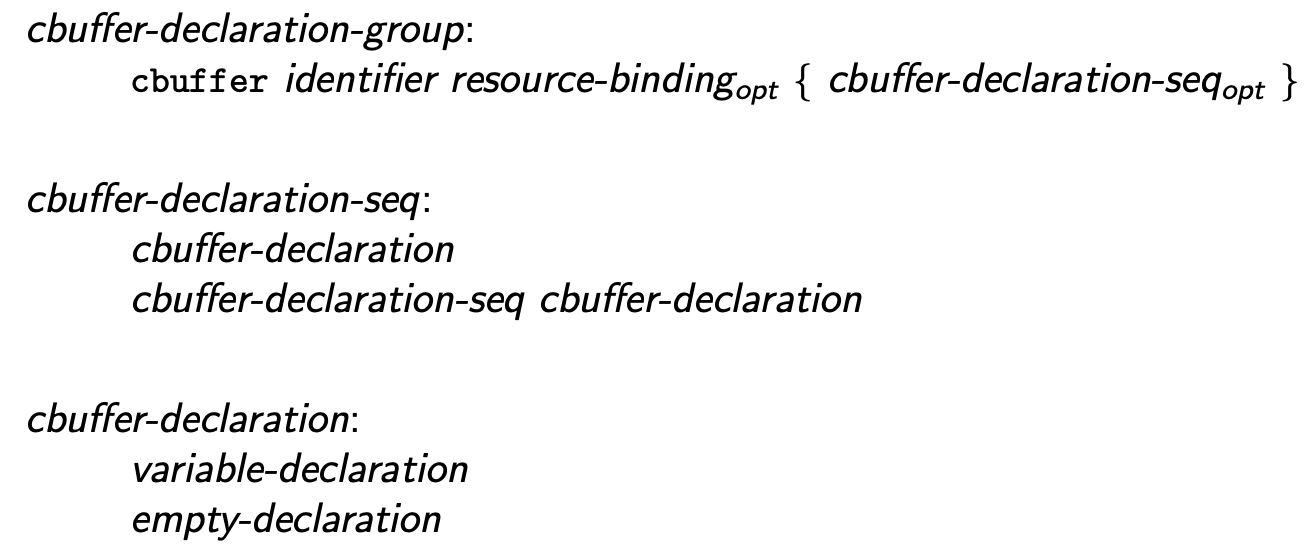
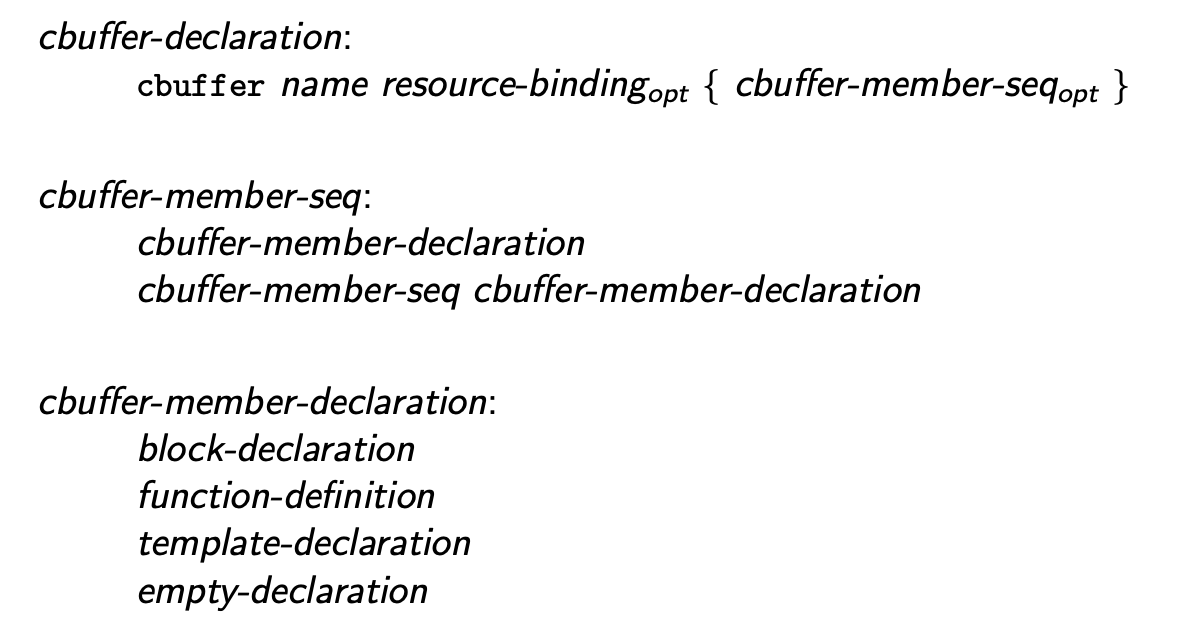
[0037] Only restrict nesting cbuffer and namespace decls (#685)
This slightly scales back the proposal to restricting namespaces in
cbuffers and restricting nesting of cbuffers. This is likely a safe
change for HLSL 202x, and we'll consider more significant changes in
subsequent language updates.

This conclusion came out of the language design meeting discussion from
10/13/2025.

The language spec updates are posted in a draft as
https://github.com/microsoft/hlsl-specs/pull/684.

---------

diff --git a/proposals/0037-cbuffer-contexts.md b/proposals/0037-cbuffer-contexts.md
@@ -7,8 +7,6 @@ params:
   status: Under Consideration
 ---
 
-
- 
 * Planned Version: 202x
 * Issues: [DXC #4514](https://github.com/microsoft/DirectXShaderCompiler/issues/4514)
 
@@ -69,39 +67,62 @@ To simplify HLSL's language semantics and the compiler implementation a new
 grammar formation is adopted for cbuffers:
 
 ```latex
-
 \begin{grammar}
-  \define{cbuffer-declaration-group}\br
-  \terminal{cbuffer} identifier \opt{resource-binding} \terminal{\{}
-  \opt{cbuffer-declaration-seq} \terminal {\}}\br
-
-  \define{cbuffer-declaration-seq}\br
-  cbuffer-declaration\br
-  cbuffer-declaration-seq cbuffer-declaration\br
-
   \define{cbuffer-declaration}\br
-  variable-declaration\br
-  empty-declaration\br
+  \terminal{cbuffer} name \opt{resource-binding} \terminal{\{}
+    \opt{cbuffer-member-seq} \terminal {\}}\br
+
+  \define{cbuffer-member-seq}\br
+  cbuffer-member-declaration\br
+  cbuffer-member-seq cbuffer-member-declaration\br
+
+  \define{cbuffer-member-declaration}\br
+  block-declaration\br
+  function-definition\br
+  template-declaration\br
+  empty-declaration
 \end{grammar}
 ```
 ![Latex Rendering](0037-assets/cbuffer-grammar.png)
 
-This simplified grammar disallows members of `cbuffer` declarations that do not
-have semantic meaning, and allows a simplification of `cbuffer` scoping rules.
+This simplified grammar restricts the declarations that are valid within a
+cbuffer to declarations that are broadly valid inside block scopes as well as
+function and template declarations. This allows a cbuffer to contain
+declarations of classes and data types as well as functions and variables.
 
 A `cbuffer` may only be declared at translation unit or namespace scope. A
-`cbuffer` may only contain non-static non-constexpr variable (or empty)
-declarations. All declarations within a `cbuffer` declare names in the immediate
-enclosing scope.
+`cbuffer` may not contain a namespace declaration and may only contain a subset
+of valid global declarations.
 
-A `cbuffer` is a colection of constant values provided to a shader at runtime.
-As such, it should only contain constant variable declarations backed by
-read-only storage in device memory that persists across the life of the
-dispatch.
+## Detailed Design
 
-Notably a `cbuffer` cannot contain function declarations, type declarations
-(classes, enumerations, typedefs), namespace declarations, constexpr or static
-variable declarations, `cbuffer` declarations, or any other declaration type not
-explicitly listed as allowed.
+> The following text will be included in the [Decl.cbuffer] section in the
+> language specification.
 
+A _cbuffer declaration_ is declared with the \texttt{cbuffer} keyword. The name
+of the cbuffer declaration does not declare a name, and cannot be referenced
+from within the translation unit, nor is it required to be unique. Each cbuffer
+declaration refers to a unique constant buffer resource.
 
+Declarations within a cbuffer declaration that declare names, declare their
+names in the scope containing the cbuffer declaration. The cbuffer declaration
+itself does not declare a declaration scope. A cbuffer declaration may not
+contain a _namespace-declaration_ or _cbuffer-declaration_.
+
+Variable declarations with program storage duration in the cbuffer declaration
+are called _shader constants_. Shader constants are implicitly `const`
+and cannot be modified in program code.
+
+## Long-term Considerations
+
+During our discussion in the language design meeting additional restrictions to
+cbuffer declarations were considered. The general consensus was that additional
+restrictions are desirable and will remove possible programmer errors, however
+there were concerns about HLSL 202x changing too much at once.
+
+In a future language version we may consider further restricting cbuffers to
+allow only variable declarations of _program storage duration_.
+
+In implementing cbuffer support in Clang we should consider implementing
+a diagnostic for all variable declarations that are not of program storage
+duration to identify potential programmer errors.
